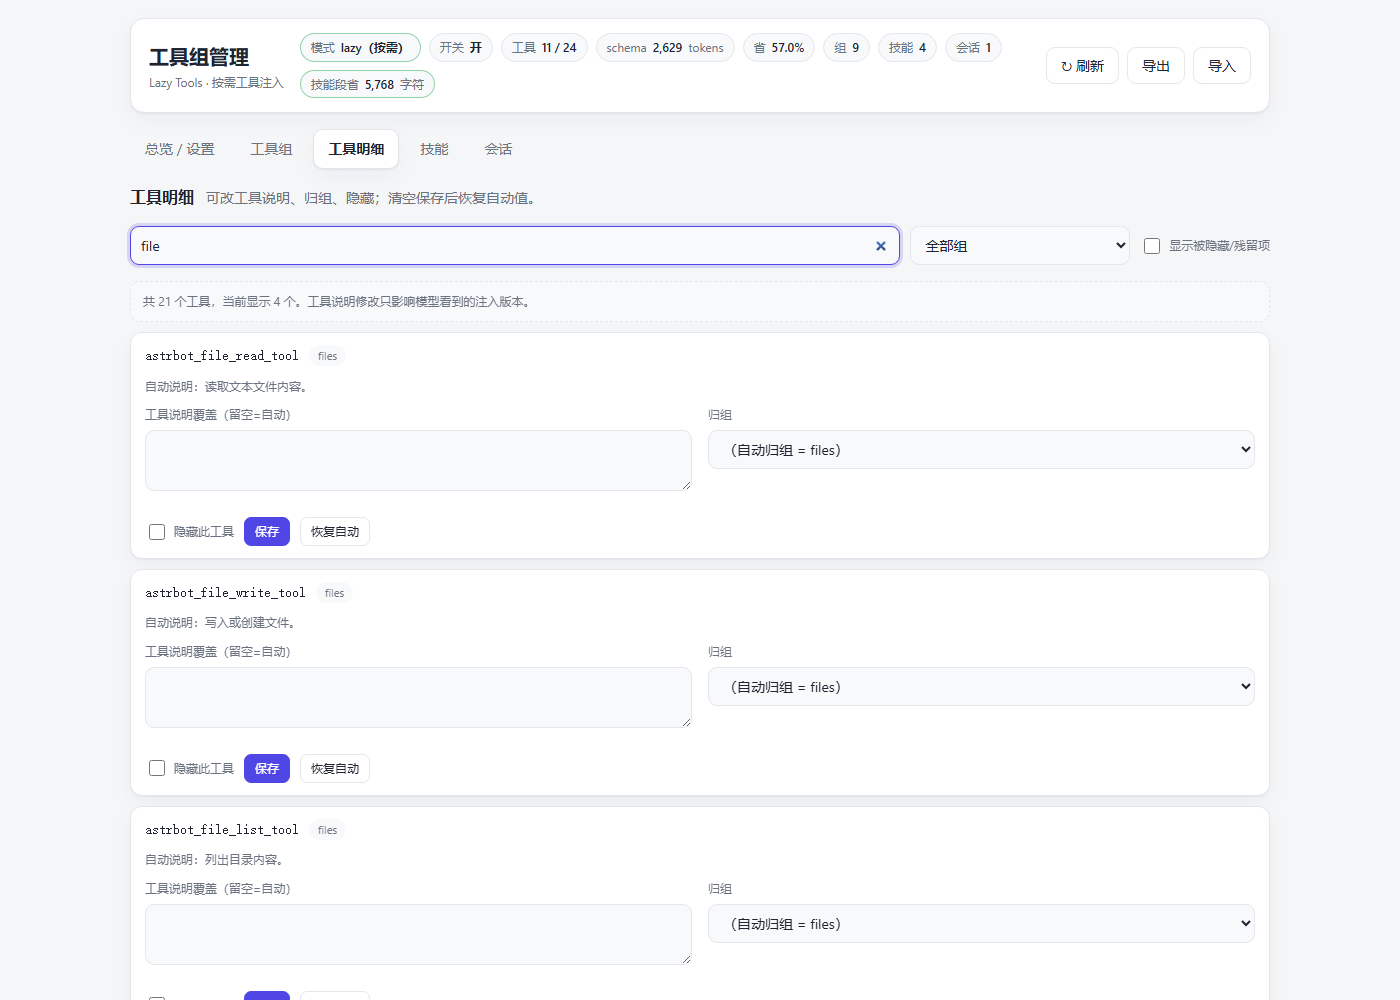
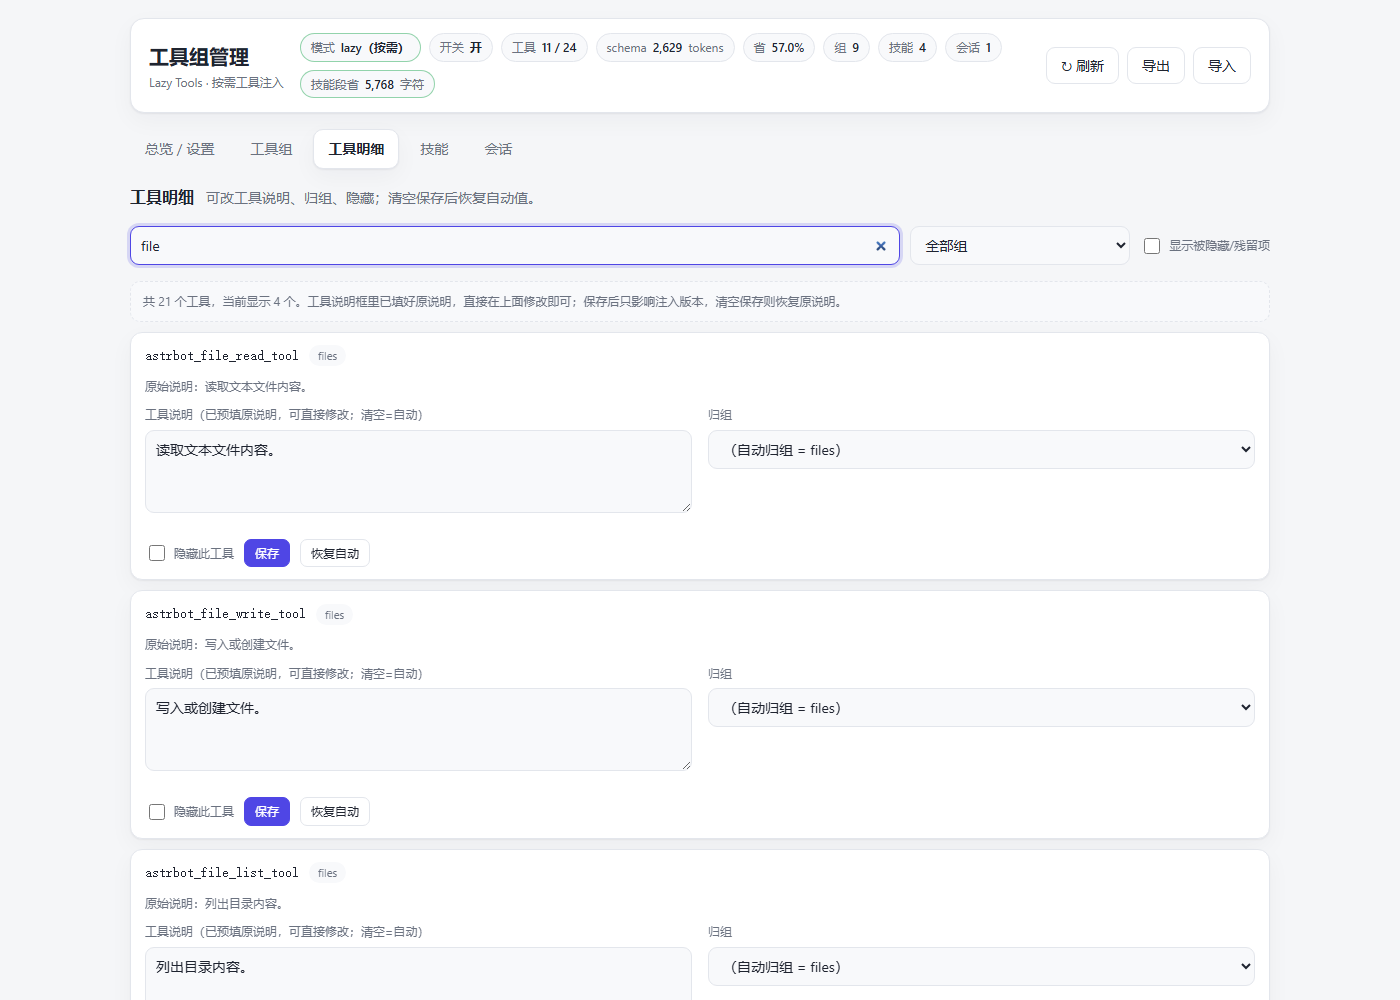
feat: v1.1.2 inline tool description editing
- tool detail textareas now prefill the current/original description so users
  can edit in place instead of retyping the whole description
- saving an unchanged prefilled description clears/keeps no override
- label/hint updated; tests: 17 Playwright UI checks incl. prefill + no-op save

diff --git a/pages/dashboard/app.js b/pages/dashboard/app.js
@@ -10,6 +10,7 @@
   var activeTab = "overview";
   var toastTimer = null;
   var toolFilter = { search: "", group: "", showHidden: false };
+  var toolAutoDescriptions = {};
 
   function $(sel, root) {
     return (root || document).querySelector(sel);
@@ -390,6 +391,7 @@
     if (!el || !state) return;
     var groups = state.groups || [];
     var groupIds = groups.map(function (g) { return g.id; });
+    toolAutoDescriptions = {};
     if (filterSelect) {
       var current = toolFilter.group;
       filterSelect.innerHTML =
@@ -407,6 +409,7 @@
     groups.forEach(function (group) {
       (group.tools || []).forEach(function (tool) {
         var override = toolOverrides[tool.name] || {};
+        toolAutoDescriptions[tool.name] = tool.auto_description || "";
         rows.push({
           name: tool.name,
           autoGroup: group.id,
@@ -422,6 +425,7 @@
     // 隐藏/残留工具
     (state.hidden_tool_info || []).forEach(function (item) {
       var override = toolOverrides[item.name] || {};
+      toolAutoDescriptions[item.name] = item.auto_description || "";
       rows.push({
         name: item.name,
         autoGroup: "",
@@ -448,7 +452,7 @@
 
     var header =
       '<div class="hint-box">共 ' + fmtNum(rows.length) + " 个工具，" +
-      "当前显示 " + fmtNum(filtered.length) + " 个。工具说明修改只影响模型看到的注入版本。</div>";
+      "当前显示 " + fmtNum(filtered.length) + " 个。工具说明框里已填好原说明，直接在上面修改即可；保存后只影响注入版本，清空保存则恢复原说明。</div>";
     if (!filtered.length) {
       el.innerHTML = header + '<div class="hint-box">没有匹配的工具。</div>';
       return;
@@ -468,10 +472,12 @@
             badges +
             "</div>" +
             '<div class="row-body">' +
-            '<div class="tool-auto-desc">自动说明：' + esc(row.autoDescription || "(无)") + "</div>" +
+            '<div class="tool-auto-desc">原始说明：' + esc(row.autoDescription || "(无)") + "</div>" +
             '<div class="row-grid">' +
-            '<label class="field"><span>工具说明覆盖（留空=自动）</span>' +
-            '<textarea data-field="description" rows="2">' + esc(row.description || "") + "</textarea></label>" +
+            '<label class="field"><span>工具说明（已预填原说明，可直接修改；清空=自动）</span>' +
+            '<textarea data-field="description" rows="3">' +
+            esc(row.description || row.autoDescription || "") +
+            "</textarea></label>" +
             '<label class="field"><span>归组</span><select data-field="group">' +
             groupOptions(row.overrideGroup, groupIds.concat(state.hidden_groups || []), row.autoGroup) +
             "</select></label>" +
@@ -636,10 +642,16 @@
 
   function collectToolPatch(row) {
     var patch = {};
+    var toolName = row.getAttribute("data-tool") || "";
+    var autoDescription = (toolAutoDescriptions[toolName] || "").trim();
     var desc = $('[data-field="description"]', row);
     var group = $('[data-field="group"]', row);
     var hidden = $('[data-field="hidden"]', row);
-    if (desc) patch.description = desc.value.trim();
+    if (desc) {
+      var description = desc.value.trim();
+      // 说明框预填的是原说明；没改动或清空时不落覆盖项，避免无意义覆盖。
+      patch.description = description === autoDescription ? "" : description;
+    }
     if (group) {
       var value = group.value;
       if (value === "__custom__") {

diff --git a/pages/dashboard/index.html b/pages/dashboard/index.html
@@ -4,7 +4,7 @@
     <meta charset="UTF-8" />
     <meta name="viewport" content="width=device-width, initial-scale=1.0" />
     <title>工具组管理</title>
-    <link rel="stylesheet" href="style.css?v=5" />
+    <link rel="stylesheet" href="style.css?v=6" />
     <script src="/api/plugin/page/bridge-sdk.js"></script>
   </head>
   <body>
@@ -181,6 +181,6 @@
 
       <div id="toast" class="toast hidden"></div>
     </div>
-    <script src="app.js?v=5"></script>
+    <script src="app.js?v=6"></script>
   </body>
 </html>

diff --git a/main.py b/main.py
@@ -26,7 +26,7 @@ from .lazy_tools.web_api import register_routes
 
 PLUGIN_NAME = "astrbot_plugin_lazy_tools"
 PLUGIN_DESC = "工具分组按需注入：省 token、提缓存命中，并可在插件页管理组说明/工具说明"
-PLUGIN_VERSION = "v1.1.1"
+PLUGIN_VERSION = "v1.1.2"
 
 _COMMAND_ALIASES = {"状态": "status", "分组": "groups", "组": "groups"}
 
